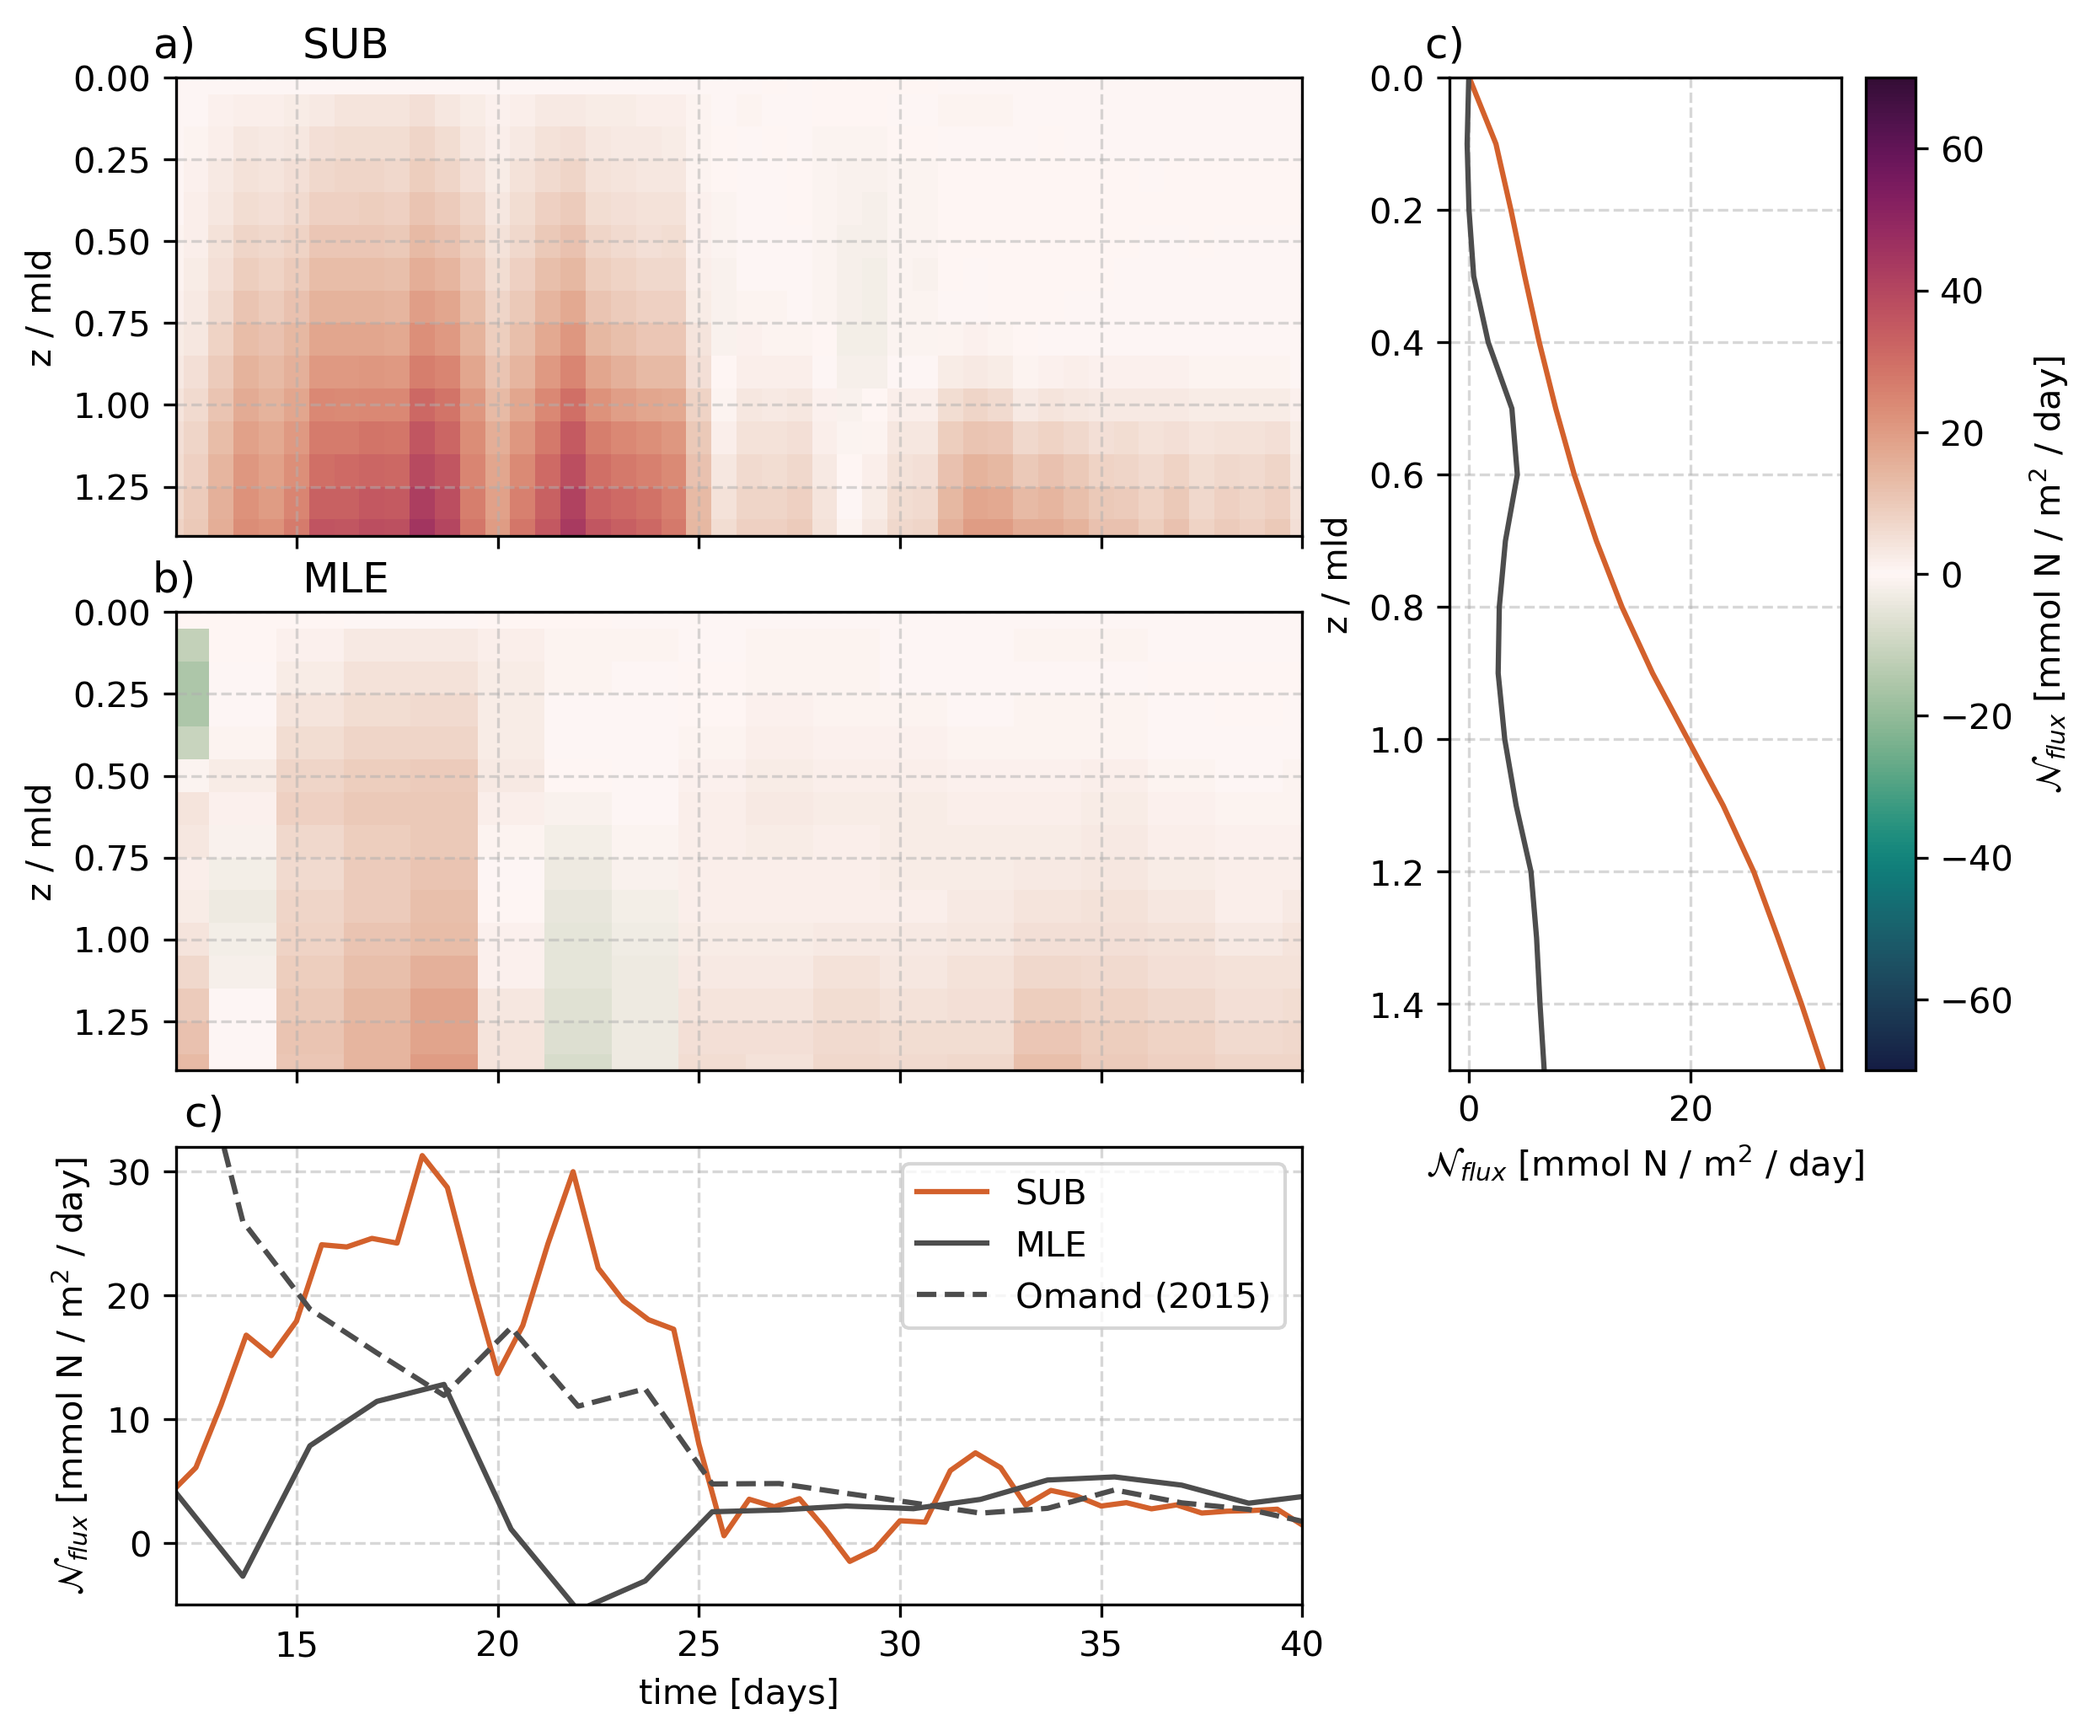
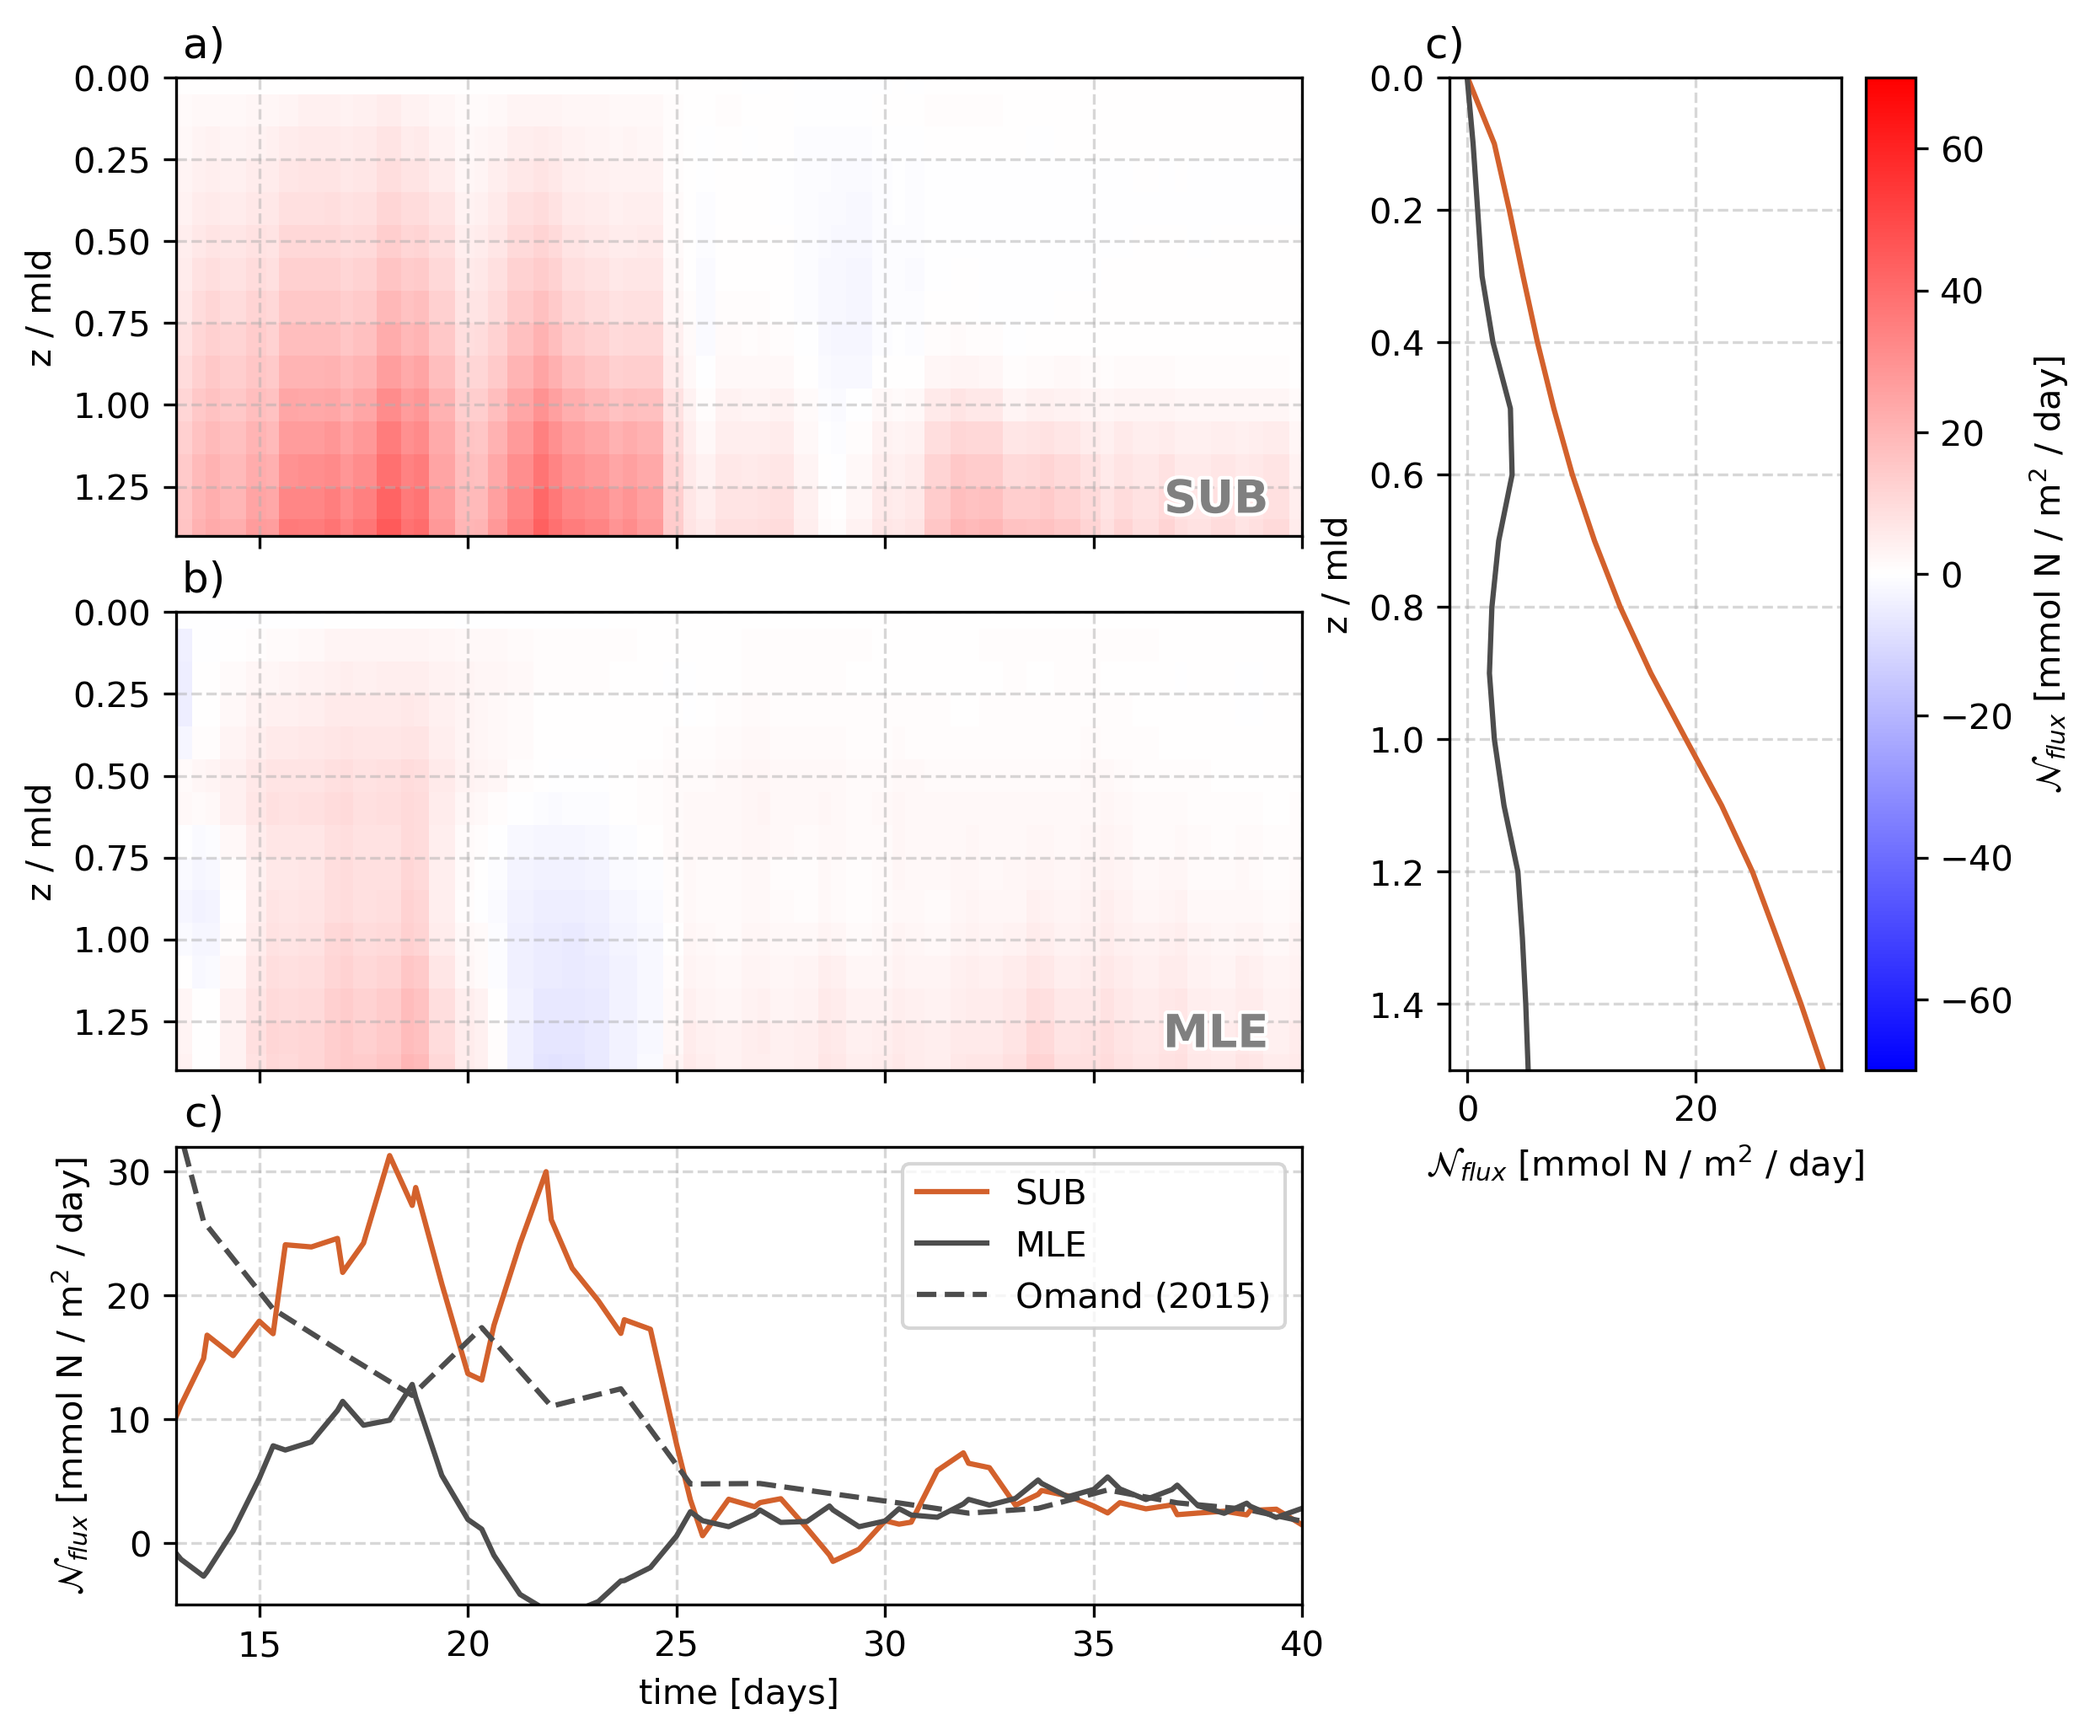
update figures for nflux

diff --git a/src/02-analysis/05-nitrate_flux.py b/src/02-analysis/05-nitrate_flux.py
@@ -1,6 +1,7 @@
 import xarray as xr
 import numpy as np
 import matplotlib.pyplot as plt
+import matplotlib.patheffects as path_effects
 from cmocean import cm
 from tqdm import tqdm
 
@@ -38,14 +39,28 @@ mu = 0.75
 mlds = np.arange(0,1.6,0.1)
 datamld = []
 for k in ["submesoscale","coarse_mle"]:
-    datai = []
-    for mldi in tqdm(mlds):
-        datai.append(data[k]["D"][mu].sel(zC=-mldi*data[k]["D"][mu]["h"],method="nearest"))
-    datamld.append(xr.concat(datai,dim="mld").assign_coords(mld=mlds))
-        
+    for i,mldi in enumerate(tqdm(mlds)):
+        if i==0:
+            datai = (
+                data[k]["D"][mu].sel(zC=-mldi*data[k]["D"][mu]["h"],method="nearest")
+                     .drop("zC").expand_dims(["exp","mld"]).assign_coords(mld=[mldi],exp=[k])
+                    )
+        else:
+            datai = xr.concat([
+                datai,
+                (
+                data[k]["D"][mu].sel(zC=-mldi*data[k]["D"][mu]["h"],method="nearest")
+                     .drop("zC").expand_dims(["exp","mld"]).assign_coords(mld=[mldi],exp=[k])
+                    )
+            ],"mld")
+    datamld.append(datai)
+datamld = xr.concat(datamld,"exp")
+datamld = datamld.assign(w_mle=datai.w_mle)
+datamld = datamld.interpolate_na("time")
+
+#### Omand
 
 D = data["coarse_mle"]["D"][mu]
-
 dz = 30
 where = (D.zC>-D.h-dz)&(D.zC<-D.h)
 N2 = np.abs(D.b.differentiate("zC"))
@@ -67,23 +82,41 @@ fig = plt.figure(constrained_layout=True,figsize=(9,8))
 ax = fig.subplot_mosaic(mosaic)
 fig.subplots_adjust(wspace=0.3, hspace=0.4)
 
-(86400*datamld[0].w*datamld[0].N).mean(["xC","yC"]).plot(ax=ax["A"],ylim=[1.4,0],vmin=-70,vmax=70,cmap=cm.curl,add_colorbar=False)
-C = (86400*(datamld[1].w+datamld[1].w_mle)*datamld[1].N).mean(["xC","yC"]).plot(ax=ax["B"],ylim=[1.4,0],vmin=-70,vmax=70,cmap=cm.curl,add_colorbar=False)
+(
+    (86400*datamld.sel(exp="submesoscale").w*datamld.sel(exp="submesoscale").N)
+ .mean(["xC","yC"]).plot(ax=ax["A"],ylim=[1.4,0],vmin=-70,vmax=70,cmap="bwr",add_colorbar=False)
+)
+C = (
+    (86400*(datamld.sel(exp="coarse_mle").w+datamld.sel(exp="coarse_mle").w_mle)*datamld.sel(exp="coarse_mle").N)
+    .mean(["xC","yC"]).plot(ax=ax["B"],ylim=[1.4,0],vmin=-70,vmax=70,cmap="bwr",add_colorbar=False)
+)
 fig.colorbar(C,ax=ax["C"],label="$\mathcal{N}_{flux}$ [mmol N / m$^2$ / day]")
 
-(86400*datamld[0].w*datamld[0].N).mean(["xC","yC"]).sel(mld=1).plot(ax=ax["D"],color="#D3612C")
-(86400*(datamld[1].w+datamld[1].w_mle)*datamld[1].N).mean(["xC","yC"]).sel(mld=1).plot(ax=ax["D"],color="0.3")
+(
+    (86400*datamld.sel(exp="submesoscale").w*datamld.sel(exp="submesoscale").N)
+ .mean(["xC","yC"]).sel(mld=1).plot(ax=ax["D"],color="#D3612C")
+)
+(
+    (86400*(datamld.sel(exp="coarse_mle").w+datamld.sel(exp="coarse_mle").w_mle)*datamld.sel(exp="coarse_mle").N)
+    .mean(["xC","yC"]).sel(mld=1).plot(ax=ax["D"],color="0.3")
+)
 ax["D"].set(ylim=[-5,32])
 
-(86400*datamld[0].w*datamld[0].N).mean(["xC","yC"]).sel(time=slice(12,25)).mean("time").plot(ax=ax["C"],y="mld",ylim=[1.5,0],color="#D3612C")
-(86400*(datamld[1].w+datamld[1].w_mle)*datamld[1].N).mean(["xC","yC"]).sel(time=slice(12,25)).mean("time").plot(ax=ax["C"],y="mld",ylim=[1.5,0],color="0.3")
+(
+    (86400*datamld.sel(exp="submesoscale").w*datamld.sel(exp="submesoscale").N)
+    .mean(["xC","yC"]).sel(time=slice(12,25)).mean("time").plot(ax=ax["C"],y="mld",ylim=[1.5,0],color="#D3612C")
+)
+(
+    (86400*(datamld.sel(exp="coarse_mle").w+datamld.sel(exp="coarse_mle").w_mle)*datamld.sel(exp="coarse_mle").N)
+    .mean(["xC","yC"]).sel(time=slice(12,25)).mean("time").plot(ax=ax["C"],y="mld",ylim=[1.5,0],color="0.3")
+)
 omand.mean(["xC","yC"]).plot(ax=ax["D"],color="0.3",linestyle="--")
 
 _ = [ax[k].set(xlabel="") for k in ["A","B","C","D"]]
 
 ax["C"].set(xlabel="$\mathcal{N}_{flux}$ [mmol N / m$^2$ / day]")
 ax["D"].set(ylabel="$\mathcal{N}_{flux}$ [mmol N / m$^2$ / day]",xlabel="time [days]",title="")
-_ = [ax[k].set(xlim=[12,40]) for k in ["A","B","D"]]
+_ = [ax[k].set(xlim=[13,40]) for k in ["A","B","D"]]
 # _ = [ax[k].axhline(1,linestyle="--",color="0.4") for k in ["A","B"]]    
 
 _ = [ax[k].set(xticklabels=[]) for k in ["A","B"]]
@@ -92,28 +125,76 @@ _ = [ax[k].grid(True,linestyle="--",alpha=0.5) for k in ["A","B","C","D"]]
 
 ax["D"].legend(["SUB","MLE","Omand (2015)"])
 
-ax["A"].set(title=f"a)        SUB"+70*" ")
-ax["B"].set(title=f"b)        MLE"+70*" ")
+ax["A"].set(title=f"a)"+80*" ")
+ax["B"].set(title=f"b)"+80*" ")
 ax["C"].set(title=f"c)"+30*" ")
 ax["D"].set(title=f"c)"+80*" ")
-    
+
+
+text = ax["A"].text(0.97, 0.03, "SUB", 
+       transform=ax["A"].transAxes, ha="right", va="bottom", fontsize=13, fontweight="bold", color="0.5")
+text.set_path_effects([path_effects.Stroke(linewidth=2, foreground='w'),
+                      path_effects.Normal()])
+
+text = ax["B"].text(0.97, 0.03, "MLE", 
+       transform=ax["B"].transAxes, ha="right", va="bottom", fontsize=13, fontweight="bold", color="0.5")
+text.set_path_effects([path_effects.Stroke(linewidth=2, foreground='w'),
+                      path_effects.Normal()])
+ 
 fig.savefig(f"../../reports/figures/nflux{sinking_text}_mu{mu}.png", facecolor="w", dpi=300, bbox_inches="tight")
 
 
 # 207.91 mmol N / m2
 (
-    (86400*datamld[0].w*datamld[0].N).mean(["xC","yC"]).sel(time=slice(12,40),mld=1).integrate("time"),
-    (86400*(datamld[1].w+datamld[1].w_mle)*datamld[1].N).mean(["xC","yC"]).sel(time=slice(12,40),mld=1).integrate("time")
+    (
+        (86400*datamld.sel(exp="submesoscale").w*datamld.sel(exp="submesoscale").N)
+        .mean(["xC","yC"]).sel(time=slice(12,40),mld=1).integrate("time")
+    ),
+    (
+        (86400*(datamld.sel(exp="coarse_mle").w+datamld.sel(exp="coarse_mle").w_mle)*datamld.sel(exp="coarse_mle").N)
+        .mean(["xC","yC"]).sel(time=slice(12,40),mld=1).integrate("time")
+    )
 )
 
 
-vm = 600
-kw = dict(vmin=-vm,vmax=vm,levels=np.arange(-vm,vm+25,25),cmap=cm.curl,add_colorbar=False)
-fig, ax = plt.subplots(2,3,figsize=(8,10))
-for row in range(2):
-    for col,ti in enumerate([20,25,35]):
-        D = datamld[row].sel(mld=1,time=ti,method="nearest")
-        (86400*D.w*D.N).plot(**kw,ax=ax[row,col])
-        D.b.plot.contour(levels=np.arange(9,10,0.001),ax=ax[row,col],colors="0.3")
-    
 
+
+
+kw = lambda vm: dict(vmin=-vm,vmax=vm,levels=np.arange(-vm,vm+20,20),cmap="bwr",add_colorbar=False)
+ti = 15
+fig, ax = plt.subplots(2,2,figsize=(10,7))
+for a,k in zip(ax,datamld.exp.values):
+    D = datamld.sel(exp=k).sel(mld=1).interpolate_na("xC").interpolate_na("yC")
+    
+    if k=="submesoscale":
+        w = D.w
+    else:
+        w = D.w+D.w_mle
+        
+    C1 = (86400*w*D.N).mean("xC").T.plot.contourf(**kw(300),ax=a[0])
+    D.b.mean("xC").T.plot.contour(levels=np.arange(9,10,0.001),ax=a[0],colors="0.3")
+    
+    C2 = (86400*w*D.N).sel(time=ti,method="nearest").T.plot.contourf(**kw(600),ax=a[1])
+    D.b.sel(time=ti,method="nearest").T.plot.contour(levels=np.arange(9,10,0.001),ax=a[1],colors="0.3")
+    
+    a[0].axvline(ti,linestyle="--")
+    a[0].set(xlim=[12,40],xlabel="time [days]",ylabel="y [km]")
+    a[1].set(ylim=[-25,25],xlabel="x [km]", ylabel="y [km]")
+    
+    for ai in a:
+        ai.set(title="")
+        ai.grid(True, linestyle="--", alpha=0.5)
+        text = ai.text(0.97, 0.03, data[k]["label"], 
+               transform=ai.transAxes, ha="right", va="bottom", fontsize=10, fontweight="bold", color="0.5")
+        text.set_path_effects([path_effects.Stroke(linewidth=2, foreground='w'),
+                              path_effects.Normal()])
+
+fig.colorbar(C1,ax=ax[:,0],label="$\mathcal{N}_{flux}$ [mmol N / m$^2$ / day]",orientation="horizontal")
+fig.colorbar(C2,ax=ax[:,1],label="$\mathcal{N}_{flux}$ [mmol N / m$^2$ / day]",orientation="horizontal")
+
+[a.set(xlabel="") for a in ax[0]]
+
+letters = "a b c d".split()
+_ = [a.set(title=f"{letter})"+60*" ") for a,letter in zip(np.ravel(ax),letters)]
+
+fig.savefig(f"../../reports/figures/nflux_map{sinking_text}_mu{mu}.png", facecolor="w", dpi=300, bbox_inches="tight")
